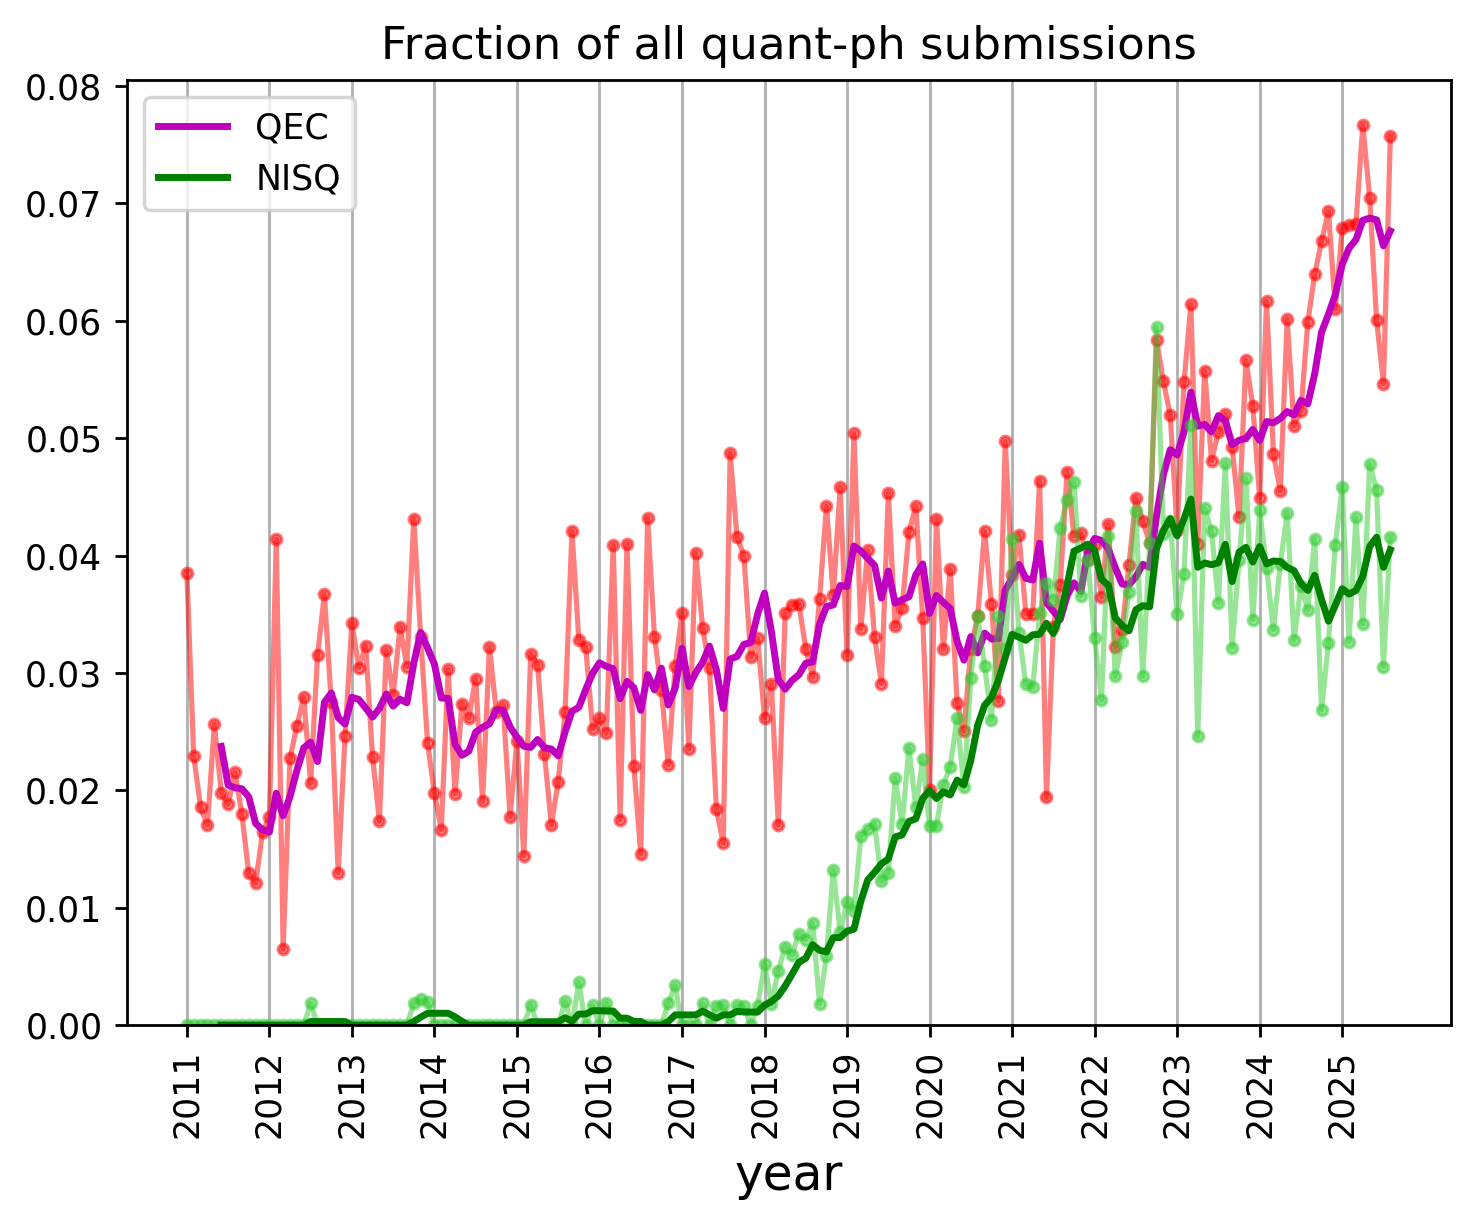
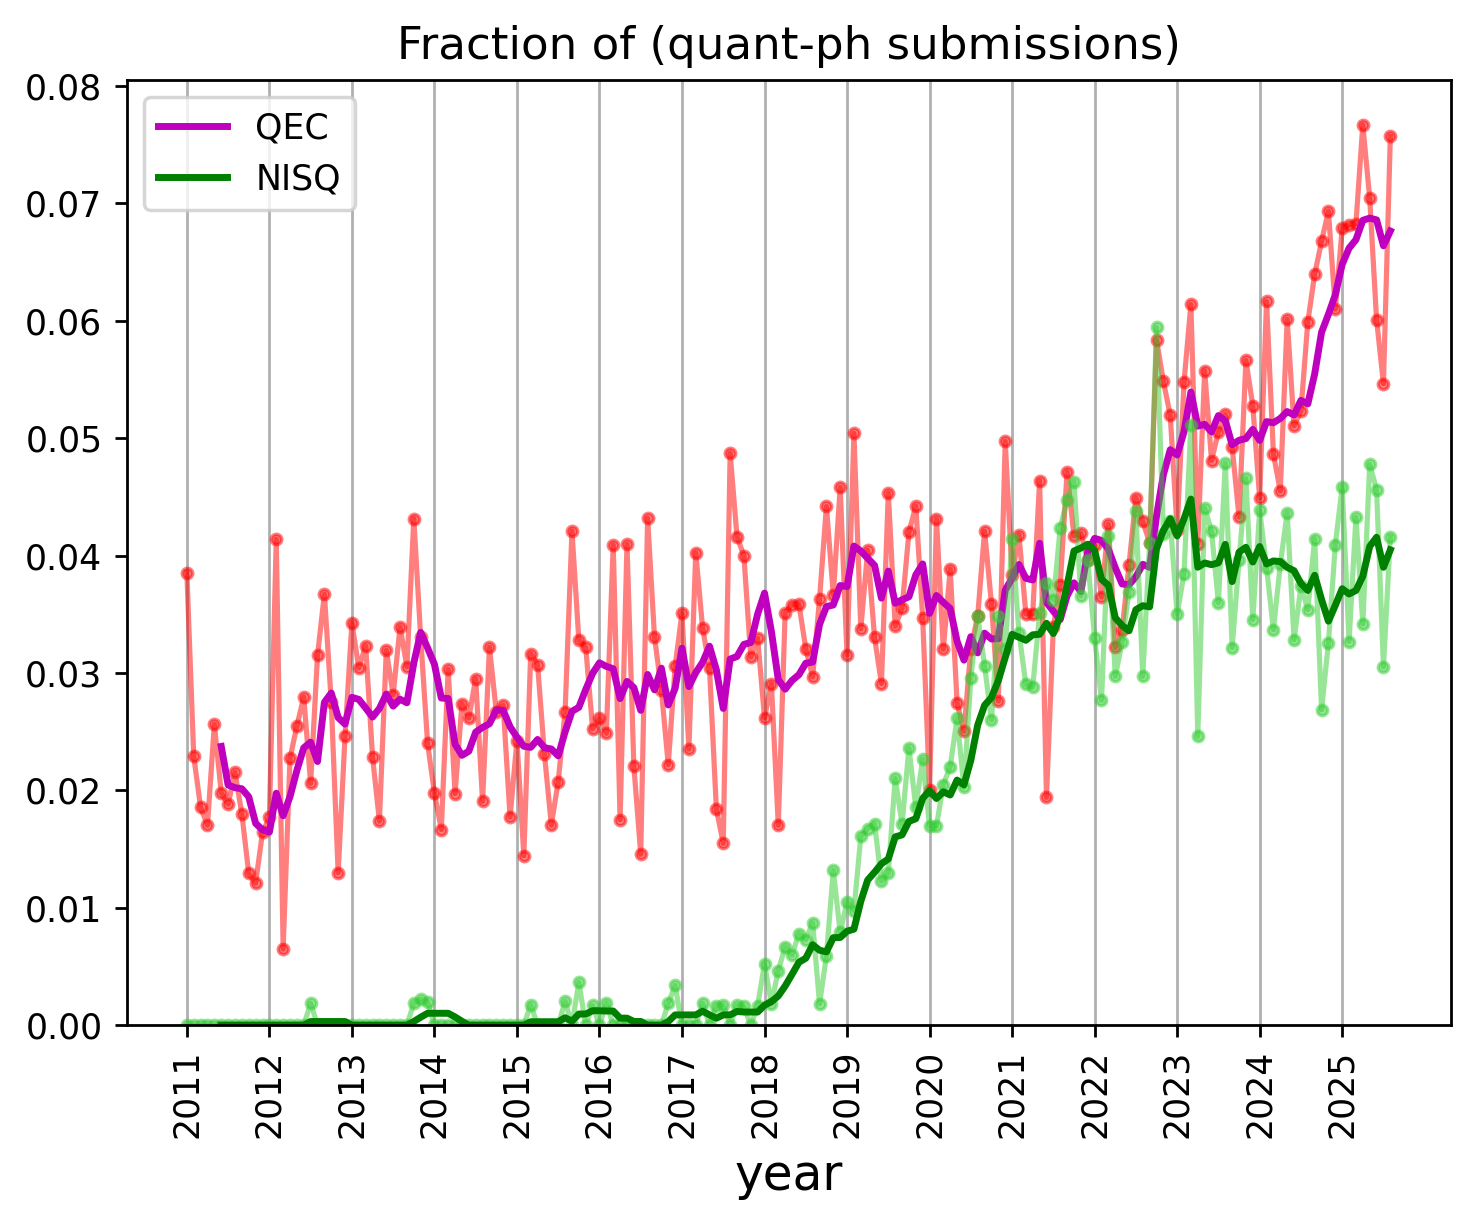
typos

Changed region(s): [[0.2495, 0.0, 0.8108, 0.062]]

diff --git a/docs/_posts/2025-09-06-QEC-eats-QCSE.md b/docs/_posts/2025-09-06-QEC-eats-QCSE.md
@@ -32,9 +32,9 @@ So, publication activity in the area of QEC and fault tolerance is blowing up su
 
 While counting `quant-ph` submissions is a decent proxy for what researchers are interested in and spending time on, it doesn't tell us whether QEC is _cool_. 
 
-### QEC eats scirate?
+### QEC eats Scirate?
 
-[Scirate]() is an ~~online popularity contest~~ website that lets people upvote and comment arXiv submissions[^2]. It is used almost exclusively by the quantum computing research community. Usage of scirate is growing rapidly, as the number of `quant-ph` submissions balloons beyond what is easily skimmable in a daily email[^3]. We can see here that QEC-related make up a growing fraction of submissions that get attention on on Scirate[^4].
+[Scirate]() is an ~~online popularity contest~~ online platform that lets people upvote and comment on arXiv submissions[^2]. It is used almost exclusively by the quantum computing research community. Usage of scirate is growing rapidly, as the number of `quant-ph` submissions balloons beyond what is easily skimmable in a daily email[^3]. We can see here that QEC-related make up a growing fraction of submissions that get attention on on Scirate[^4].
 
 ![QEC scirate question fractions](/assets/2025-09-06/qec_scirate.png)
 *Among papers that get attention (at least 5 upvotes) on Scirate, QEC represents a growing fraction. It is a "cool" subfield.*
@@ -95,6 +95,7 @@ QML hits:
 	quantum machine learning: 1265
     barren plateau: 307
 ```
+I used [SEDE](https://data.stackexchange.com/) and ChatGPT for analyzing QCSE trends, the [arXiv Kaggle dataset](https://www.kaggle.com/datasets/Cornell-University/arxiv) for `quant-ph` trends, and the `scirate` API for Scirate trends. 
 
 #### Acknowledgments
 
